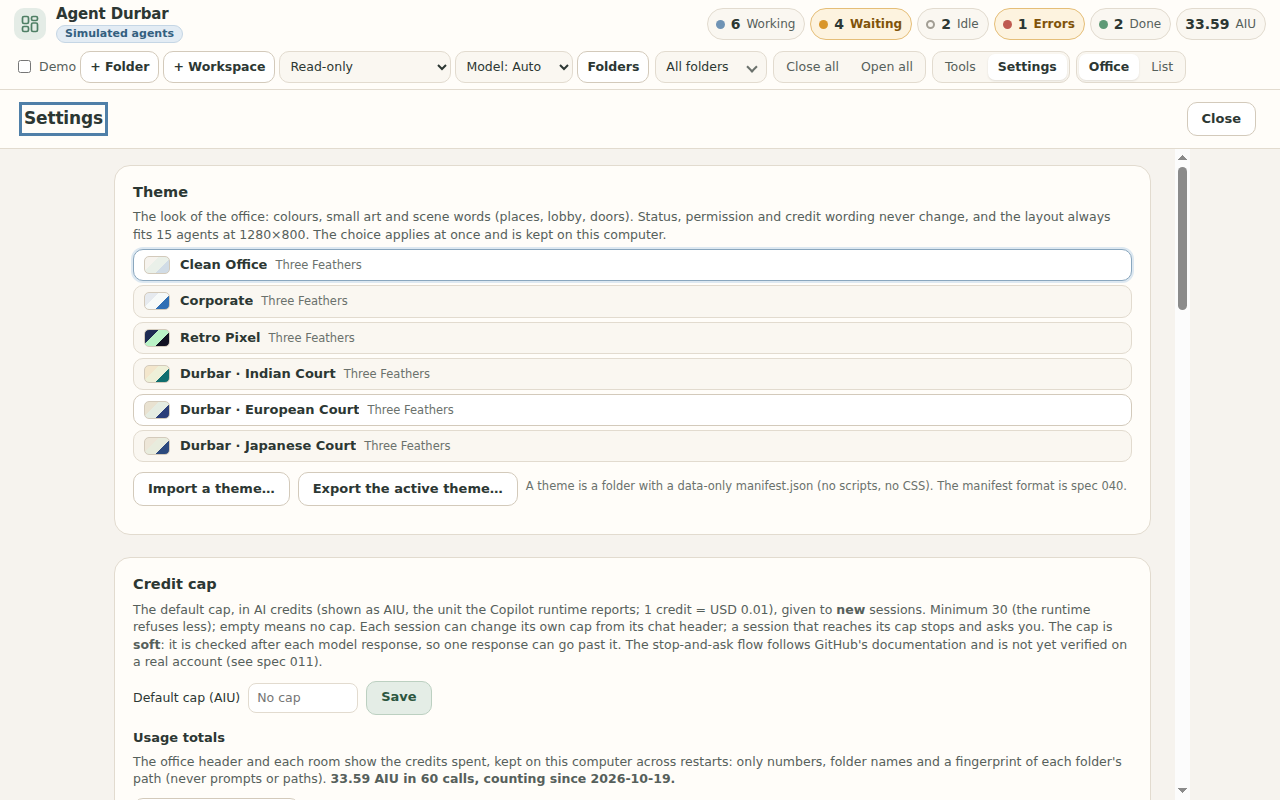
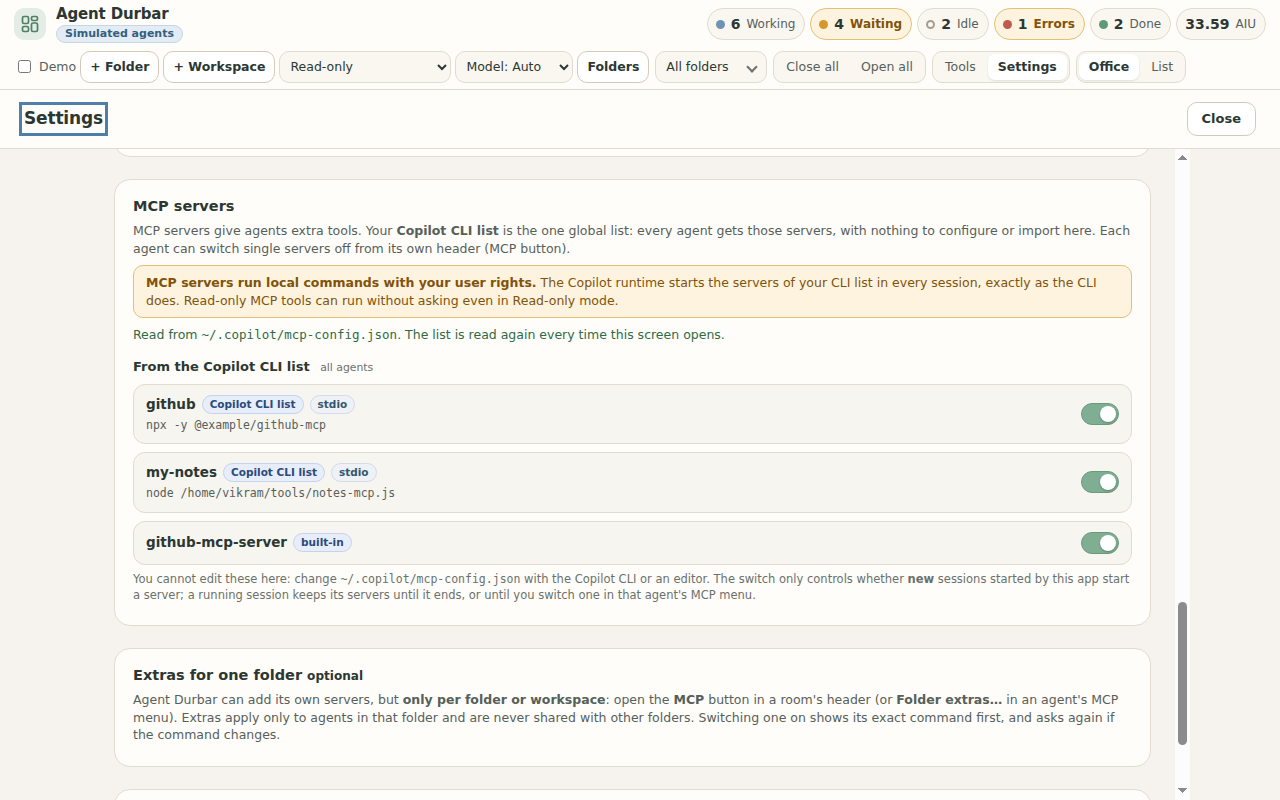
033: settings-cli-list picture shows the CLI list; driver scrolls it into view and asserts it (review of T043)
Claude-Session: https://claude.ai/code/session_01Mj63agcLftbxvrSoGqM1Fp

Changed region(s): [[0.0938, 0.2188, 0.9375, 1.0], [0.9062, 0.75, 0.9375, 0.9375]]

diff --git a/scripts/shots-m10.js b/scripts/shots-m10.js
@@ -38,6 +38,9 @@ module.exports = async (ctx) => {
     assert.strictEqual(await count('#mcpAdd, #mcpImpCopilot, #mcpImpVs'), 0, 'no app-level add/import in Settings');
     assert.match(await text('#extH'), /Extras for one folder/);
     assert.match(await text('#screen'), /only per folder or workspace/);
+    // the CLI list is the first thing the picture is about: scroll it into view and prove it is inside the window
+    await ctx.js(`document.getElementById('ambList').scrollIntoView({block:'center'});document.scrollingElement.scrollTop=0`); await ctx.sleep(300);
+    assert.strictEqual(await ctx.js(`(()=>{const r=document.getElementById('ambList').getBoundingClientRect();return r.top>=0&&r.bottom<=window.innerHeight&&r.left>=0&&r.right<=window.innerWidth})()`), true, 'the CLI list is inside the window for the picture');
     await shot('settings-cli-list', w, h);
     await closeScreen(); await ctx.sleep(300);
 
